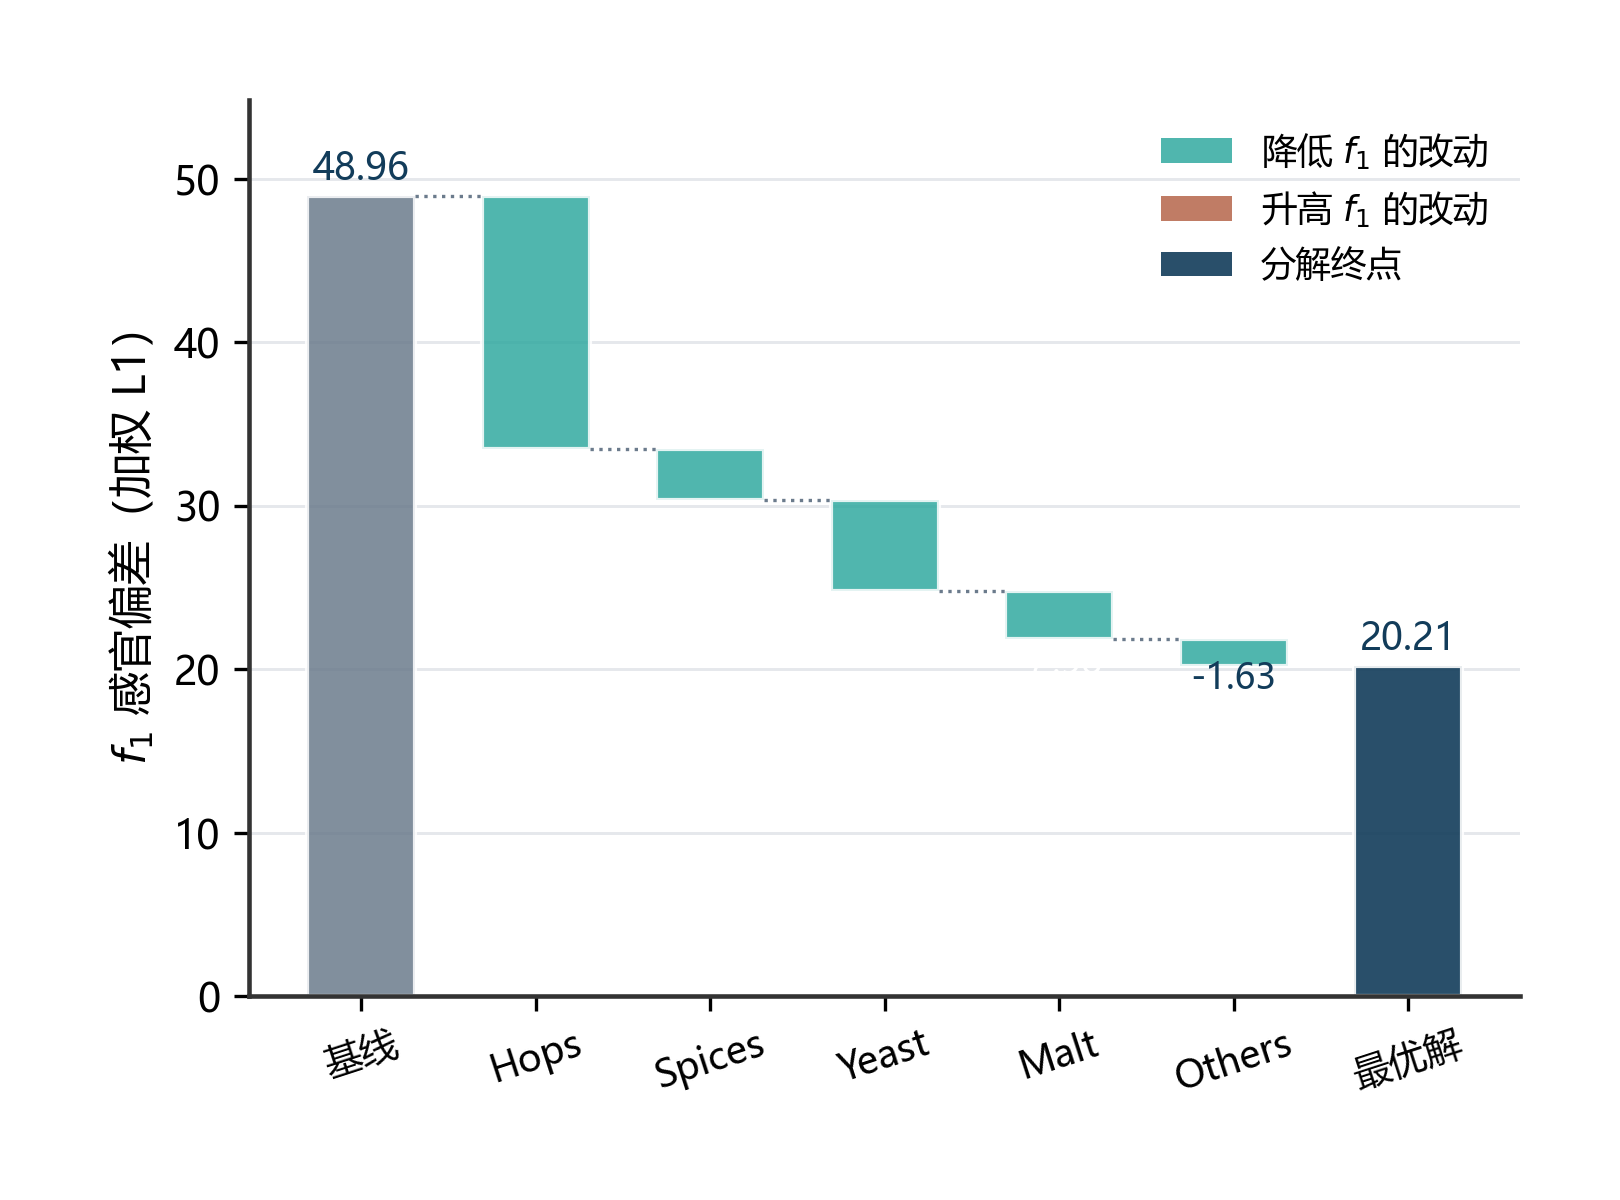
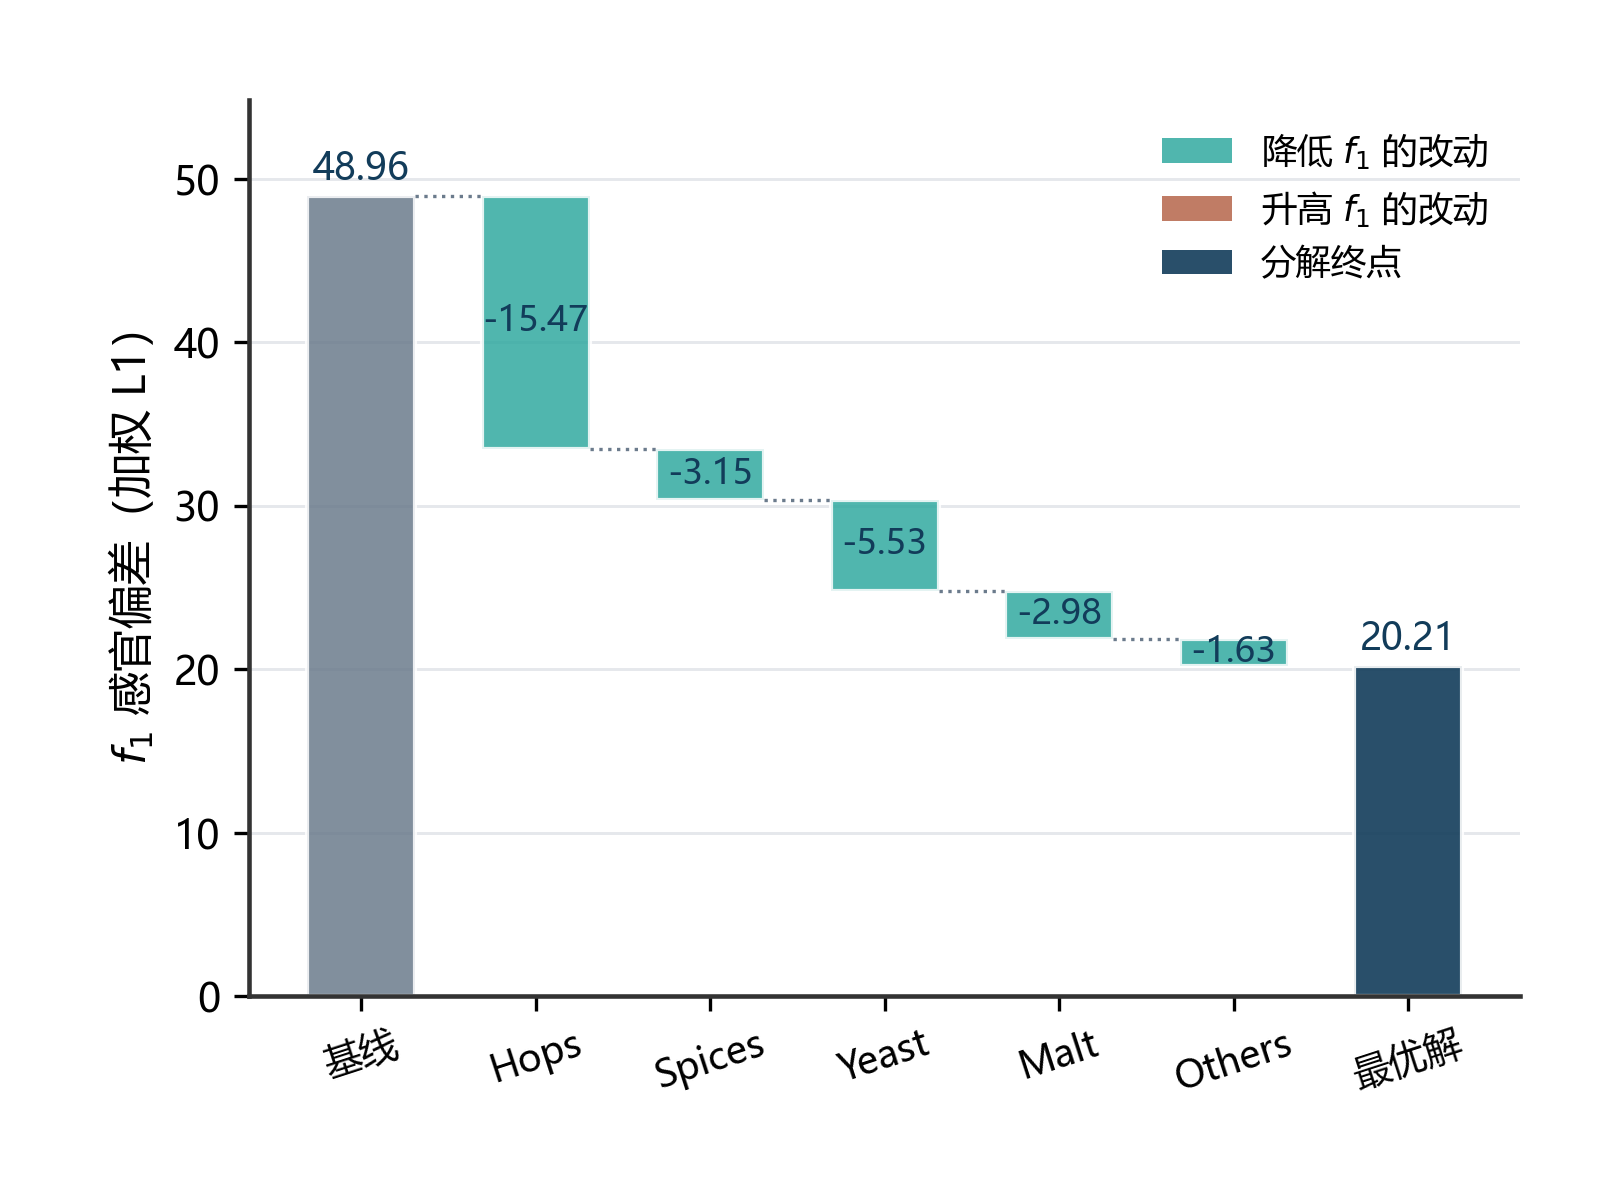
q3: 瀑布图五步里有四步的 Δ 是隐形的，第五步掉在柱外
两处都是纯标注缺陷，数据一行没动：

① 文字颜色按 |Δ|>2 一律抹白字，而柱子是 C_TEAL(#31a9a0) 加 0.85 透明度、
   混白后约 #4fb3ab——白字压上去几乎看不见。结果 Hops/Spices/Yeast/Malt
   四根大跌柱的 Δ（-15.47 / -3.15 / -5.53 / -2.98）全是隐形的，图上那四根
   柱等于空白，整张图看上去只有一步有数值。
   改为按柱色亮度选字色（0.299R+0.587G+0.114B，含 0.85 透明合成），
   这批柱子亮度约 0.59，统一用深色字。

② 标签的竖直定位写的是 f1_after - |Δ|/2，对下降柱会算到柱体下沿以下：
   Others 那根柱跨度是 20.21–21.84，中心应在 21.0，原式给的是 19.4，所以
   -1.63 掉在柱外、压在连接线上。改为 bottom + |Δ|/2（bottom 已经是
   min(before, after)）。

重出 fig_q3_waterfall 的 PNG 与 SVG（5.4x4.0 in / 300 dpi、柱高、连接线、
图例、轴范围均未动；柱区之外逐像素差异 0.00，五步 Δ 相加 48.96→20.21 闭合）。

diff --git a/competitions/2026-mathorcup/code/figures.py b/competitions/2026-mathorcup/code/figures.py
@@ -1104,11 +1104,20 @@ def fig_q3_waterfall():
         before = float(r.f1_after) - float(r.delta_f1)
         delta = float(r.delta_f1)
         bottom = min(before, float(r.f1_after))
+        bar_c = C_TEAL if delta < 0 else C_WARN
         ax.bar(x[i], abs(delta), bottom=bottom, width=0.62,
-               color=C_TEAL if delta < 0 else C_WARN, alpha=0.85, edgecolor='white')
-        ax.text(x[i], float(r.f1_after) - abs(delta) / 2.0, f'{delta:+.2f}',
-                ha='center', va='center', fontsize=8.5,
-                color='white' if abs(delta) > 2.0 else C_DEEP)
+               color=bar_c, alpha=0.85, edgecolor='white')
+        # 文字颜色按柱色亮度定：teal 加 0.85 透明度后接近 #4fb3ab，白字几乎
+        # 看不见——原来按 |Δ|>2 一律抹白字，结果 Hops/Spices/Yeast/Malt 四根
+        # 大跌柱的 Δ 全是隐形的（图上那几根柱是空的）。
+        r_, g_, b_ = matplotlib.colors.to_rgb(bar_c)
+        lum = (0.299 * r_ + 0.587 * g_ + 0.114 * b_) * 0.85 + 0.15
+        # 竖直居中：柱体跨度是 [min(before, after), max(before, after)]，原来
+        # 写的是 f1_after - |Δ|/2，对下降柱会落到柱体下方——Others 那根
+        # -1.63 就掉在柱外，压在连接线上。
+        cy = bottom + abs(delta) / 2.0
+        ax.text(x[i], cy, f'{delta:+.2f}', ha='center', va='center',
+                fontsize=8.5, color='white' if lum < 0.55 else C_DEEP)
     # 末柱：收敛后的绝对值
     final = float(steps.f1_after.iloc[-1]) if len(steps) else base
     ax.bar(x[-1], final, width=0.62, color=C_DEEP, alpha=0.9, edgecolor='white')
